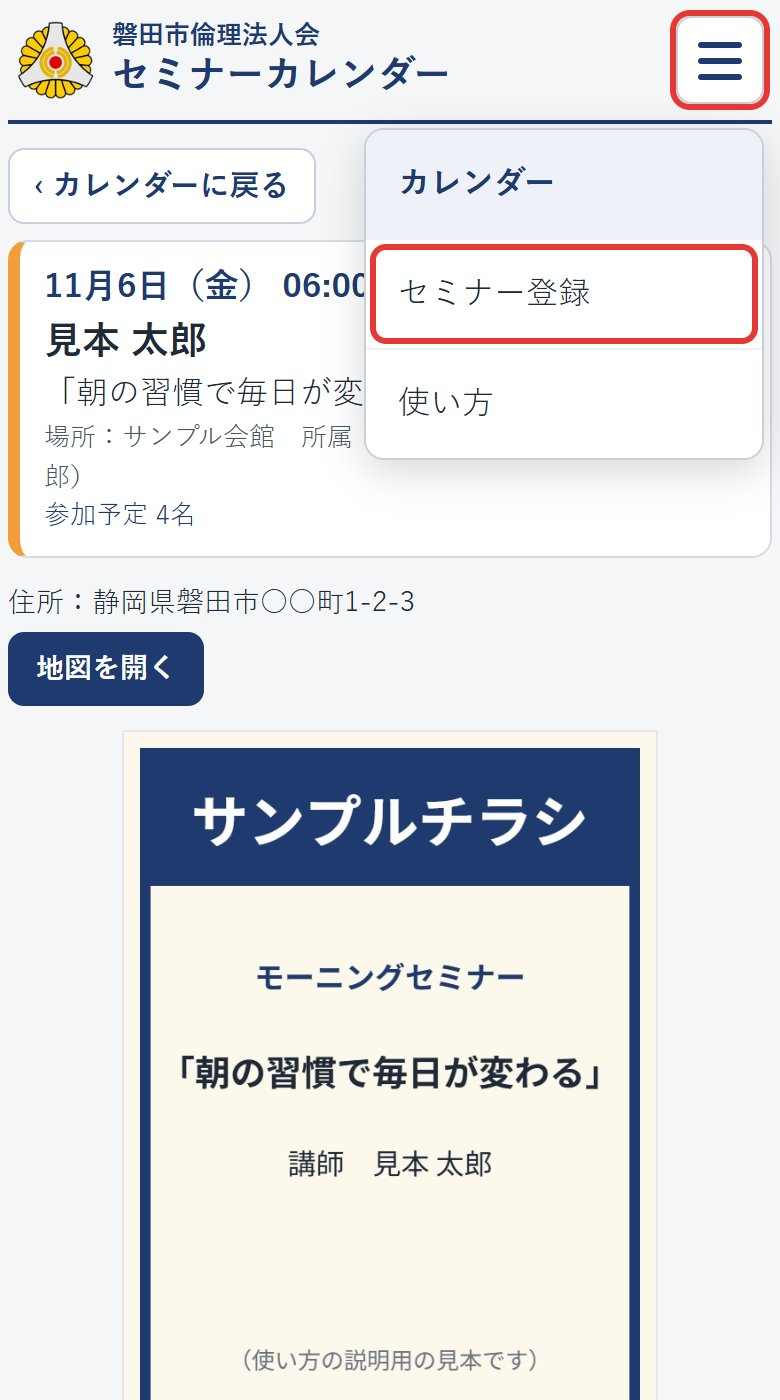
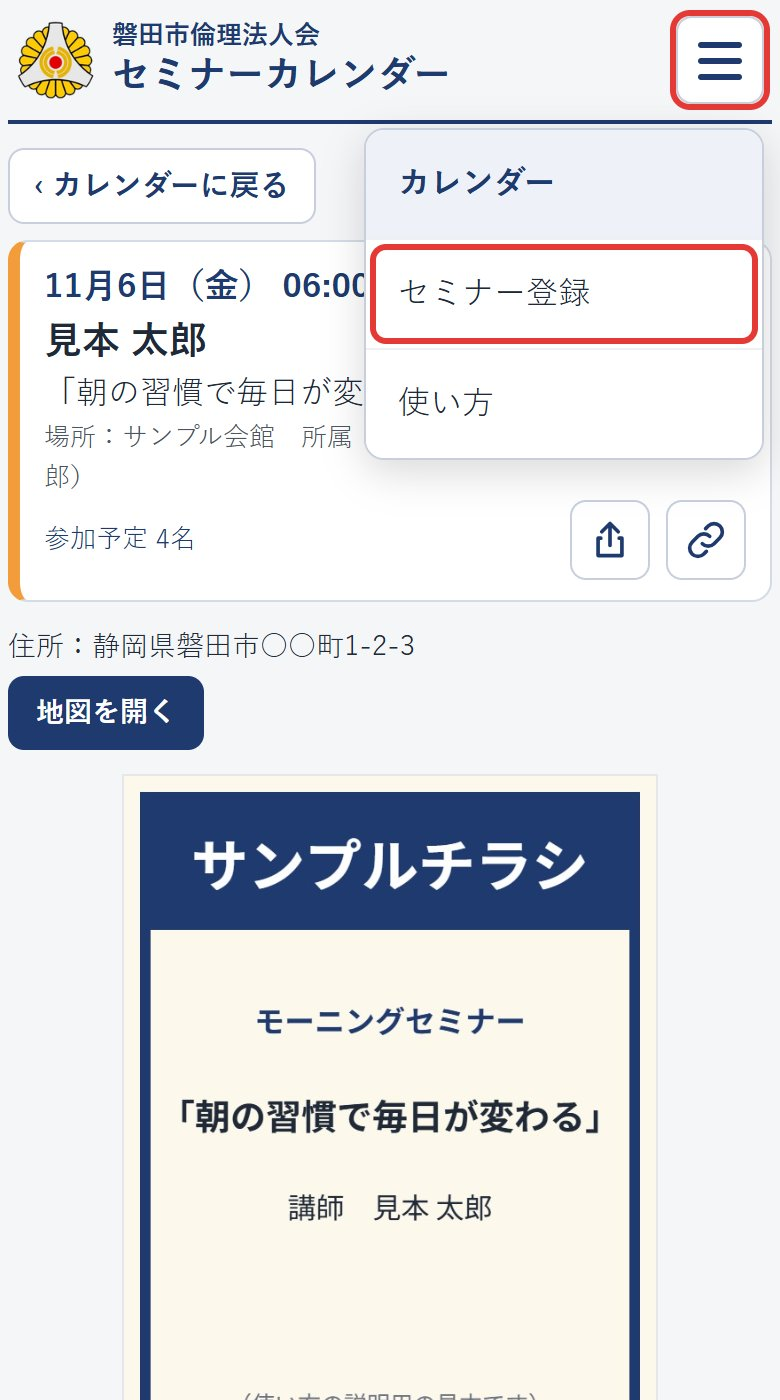
v7: 詳細ページに共有・リンクコピーのボタン（アイコンだけ、「参加予定」の行の右端）、月の一覧の終了したセミナーを折りたたむ
- URL は origin + pathname + ?openExternalBrowser=1#s=<ID>。共有は navigator.share、無ければ LINE の共有ページ。参加者名は入れない
- リンクコピーはクリップボード（駄目なら execCommand、それも駄目なら URL を表示）。「リンクをコピーしました」を約2秒
- 「終了したセミナー（N件）」は最初は閉じる（これからが0件の月は開く）。開閉はメモリだけ、月を切り替えたら既定に
- 使い方の画像 02・05・11・12 を撮り直し。?v=14

diff --git a/app.js b/app.js
@@ -24,7 +24,8 @@
     detailNo: 0,
     passKnown: false,   // 合言葉が設定されているかをサーバーから聞いたか（v6：参加者の「削除」を出すため）
     passAsking: false,
-    applyNo: 0,         // 申込の返事（参加者一覧）を受け取った回数（裏の取り直しで古い一覧に戻さないため）
+    endedOpen: null,    // 一覧の「終了したセミナー」の開閉（v7。null＝既定。メモリだけ）
+    applyNo: 0,        // 申込の返事（参加者一覧）を受け取った回数（裏の取り直しで古い一覧に戻さないため）
     inAppHistory: false, // 直前の履歴がこの画面の中のもの（「‹ カレンダーに戻る」でブラウザの戻ると同じ動きにする）
     flash: '',          // 詳細ページの上に出すメッセージ（登録しました／更新しました）
     exportNo: 0,
@@ -200,6 +201,7 @@
    * 描いたあとに前後の月を先読みする
    */
   function loadMonth(ym) {
+    if (ym !== state.ym) state.endedOpen = null; // 月を切り替えたら終了したセミナーの開閉は既定に戻す（v7）
     state.ym = ym;
     state.loadedYm = ym;
     state.monthDirty = false;
@@ -344,7 +346,10 @@
       list.appendChild(el('div', 'status', 'この月のセミナーはありません'));
       return;
     }
-    sortForList(state.seminars, state.today).forEach(function (s) {
+    var sorted = sortForList(state.seminars, state.today);
+    var upcoming = sorted.filter(function (s) { return s.date >= state.today; });
+    var endedList = sorted.filter(function (s) { return s.date < state.today; });
+    var makeCard = function (s) {
       var ended = s.date < state.today;
       // 終了したカードは薄い灰色（v6。.ended は詳細ページの「終了」の枠と同じ名前なので card-ended にした）
       var card = el('button', 'card ' + kindOf(s) + (ended ? ' card-ended' : ''));
@@ -353,8 +358,28 @@
       fillHead(card, s);
       if (ended) card.appendChild(el('span', 'ended-badge', '終了'));
       card.addEventListener('click', function () { openSeminar(s.id); });
-      list.appendChild(card);
+      return card;
+    };
+    upcoming.forEach(function (s) { list.appendChild(makeCard(s)); });
+    if (!endedList.length) return;
+    // v7：終了したセミナーは折りたたむ。最初は閉じる（「これから」が0件の月は最初から開く）。開閉はメモリだけ
+    var open = state.endedOpen === null ? !upcoming.length : state.endedOpen;
+    var toggle = el('button', 'ended-toggle', '終了したセミナー（' + endedList.length + '件）');
+    toggle.type = 'button';
+    toggle.id = 'ended-toggle';
+    toggle.setAttribute('aria-expanded', String(open));
+    toggle.setAttribute('aria-controls', 'ended-list');
+    var box = el('div', 'ended-list');
+    box.id = 'ended-list';
+    box.hidden = !open;
+    endedList.forEach(function (s) { box.appendChild(makeCard(s)); });
+    toggle.addEventListener('click', function () {
+      state.endedOpen = box.hidden;
+      box.hidden = !state.endedOpen;
+      toggle.setAttribute('aria-expanded', String(state.endedOpen));
     });
+    list.appendChild(toggle);
+    list.appendChild(box);
   }
 
   /**
@@ -638,8 +663,102 @@
     edit.type = 'button';
     edit.addEventListener('click', function () { openEdit(s); });
     head.appendChild(edit);
+    // v7：「参加予定 N名」の行の右端に、共有とリンクコピー（アイコンだけ）
+    var count = head.querySelector('.count');
+    var row = el('div', 'count-row');
+    head.insertBefore(row, count);
+    row.appendChild(count);
+    row.appendChild(shareButtons(head, s));
     box.appendChild(head);
     return head;
+  }
+
+  // ---- 共有・リンクコピー（v7）。端末には何も保存しない。通信もしない（LINE の共有ページを開くときだけ） ----
+  var ICON_SHARE = '<svg viewBox="0 0 24 24" width="22" height="22" aria-hidden="true" focusable="false"><path d="M12 15V3M7.5 7.5L12 3l4.5 4.5M7 11H5.5v9.5h13V11H17" fill="none" stroke="currentColor" stroke-width="2" stroke-linecap="round" stroke-linejoin="round"/></svg>';
+  var ICON_LINK = '<svg viewBox="0 0 24 24" width="22" height="22" aria-hidden="true" focusable="false"><path d="M10 14a4.5 4.5 0 0 0 6.4 0l3.2-3.2a4.5 4.5 0 0 0-6.4-6.4l-1.4 1.4M14 10a4.5 4.5 0 0 0-6.4 0l-3.2 3.2a4.5 4.5 0 0 0 6.4 6.4l1.4-1.4" fill="none" stroke="currentColor" stroke-width="2" stroke-linecap="round" stroke-linejoin="round"/></svg>';
+
+  /** セミナーごとの URL。ドメインは直書きしない（今開いているページの origin + pathname） */
+  function seminarUrl(s) {
+    return location.origin + location.pathname + '?openExternalBrowser=1#s=' + encodeURIComponent(s.id);
+  }
+
+  /** 共有の文（画面に出ている文字だけ。参加者の名前は入れない） */
+  function shareLines(s) {
+    var wd = WEEK[weekdayOf(s.date)];
+    var lines = ['【磐田市倫理法人会 セミナー】', dateLabel(s.date) + '（' + wd + '）' + s.time + ' ' + s.lecturer];
+    if (s.theme) lines.push('「' + s.theme + '」');
+    return lines;
+  }
+
+  function shareButtons(head, s) {
+    var wrap = el('div', 'share-actions');
+    var mk = function (cls, label, svg) {
+      var b = el('button', 'icon-btn ' + cls);
+      b.type = 'button';
+      b.setAttribute('aria-label', label);
+      b.title = label;
+      b.innerHTML = svg;
+      wrap.appendChild(b);
+      return b;
+    };
+    var share = mk('share-btn', '共有', ICON_SHARE);
+    var copy = mk('copy-btn', 'リンクをコピー', ICON_LINK);
+    // 「リンクをコピーしました」はボタンの下に重ねて出す（下の内容を動かさない）
+    var toast = el('div', 'share-toast');
+    toast.setAttribute('aria-live', 'polite');
+    wrap.appendChild(toast);
+    var toastTimer = null;
+    var showToast = function (text) {
+      toast.textContent = text;
+      toast.classList.add('show');
+      clearTimeout(toastTimer);
+      toastTimer = setTimeout(function () { toast.classList.remove('show'); toast.textContent = ''; }, 2000);
+    };
+    // 失敗したとき：見出しの枠の下に理由と URL（長押しで選べる文字）
+    var fail = function (text) {
+      var old = head.querySelector('.share-fail');
+      if (old) old.remove();
+      var box = el('div', 'share-fail');
+      box.appendChild(el('div', 'msg error', text));
+      box.appendChild(el('div', 'share-url', seminarUrl(s)));
+      head.appendChild(box);
+    };
+    var openLine = function () {
+      var lines = shareLines(s).concat([seminarUrl(s)]);
+      var w = window.open('https://line.me/R/share?text=' + encodeURIComponent(lines.join('\n')), '_blank');
+      if (w) { try { w.opener = null; } catch (e) { /* 何もしない */ } } else fail('共有できませんでした');
+    };
+    share.addEventListener('click', function () {
+      if (navigator.share) {
+        navigator.share({ title: '磐田市倫理法人会 セミナー', text: shareLines(s).join('\n'), url: seminarUrl(s) })
+          .catch(function (err) {
+            if (err && err.name === 'AbortError') return; // 利用者がやめた
+            openLine();
+          });
+      } else {
+        openLine();
+      }
+    });
+    copy.addEventListener('click', function () {
+      var url = seminarUrl(s);
+      var fallback = function () {
+        var ta = el('textarea', 'copy-buffer');
+        ta.value = url;
+        ta.setAttribute('readonly', '');
+        document.body.appendChild(ta);
+        ta.select();
+        var ok = false;
+        try { ok = document.execCommand('copy'); } catch (e) { ok = false; }
+        ta.remove();
+        if (ok) showToast('リンクをコピーしました'); else fail('コピーできませんでした');
+      };
+      if (navigator.clipboard && navigator.clipboard.writeText) {
+        navigator.clipboard.writeText(url).then(function () { showToast('リンクをコピーしました'); }, fallback);
+      } else {
+        fallback();
+      }
+    });
+    return wrap;
   }
 
   $('d-back').addEventListener('click', function () {

diff --git a/style.css b/style.css
@@ -164,6 +164,32 @@ a.link-btn {
 .card.card-ended.venue { border-left-color: #f6cfa3; }
 .card.card-ended .when, .card.card-ended .when .sun, .card.card-ended .when .sat,
 .card.card-ended .lecturer, .card.card-ended .theme, .card.card-ended .meta, .card.card-ended .count { color: #4b5563; }
+/* 終了したセミナーの折りたたみ（v7）：控えめな見出し。▼＝閉、▲＝開（使い方の見出しと同じ印） */
+.ended-toggle {
+  display: flex; align-items: center; justify-content: space-between; gap: 8px; width: 100%; min-height: 44px;
+  margin: 4px 0 10px; padding: 8px 14px; border: 1px solid #e1e4e8; border-radius: 10px;
+  background: #f3f4f6; color: #4b5563; font-size: 15px; font-weight: bold; font-family: inherit; text-align: left; cursor: pointer;
+}
+.ended-toggle::after { content: '▼'; flex: none; font-size: 12px; }
+.ended-toggle[aria-expanded="true"]::after { content: '▲'; }
+/* 詳細ページの見出しの「参加予定 N名」の行（v7）：右端に共有・リンクコピー（アイコンだけ） */
+.detail-head .count-row { display: flex; align-items: center; justify-content: space-between; gap: 8px; margin-right: -52px; margin-top: 2px; }
+.share-actions { position: relative; display: flex; gap: 8px; flex: none; }
+.icon-btn {
+  display: inline-flex; align-items: center; justify-content: center; width: 40px; height: 40px; padding: 0;
+  border: 1px solid #c7cfdd; border-radius: 8px; background: #fff; color: #1e3a6e; cursor: pointer;
+}
+.icon-btn:focus-visible { outline: 2px solid #2D8CFF; outline-offset: 2px; }
+.share-toast {
+  position: absolute; right: 0; top: calc(100% + 6px); z-index: 2; white-space: nowrap;
+  padding: 4px 10px; border-radius: 6px; background: #1e3a6e; color: #fff; font-size: 13px; font-weight: bold;
+  visibility: hidden;
+}
+.share-toast.show { visibility: visible; }
+.share-fail { margin-top: 8px; margin-right: -52px; font-size: 13px; }
+.share-fail .msg { margin-top: 0; }
+.share-url { padding: 6px 8px; border: 1px solid #c7cfdd; border-radius: 6px; background: #fff; overflow-wrap: anywhere; user-select: all; -webkit-user-select: all; }
+.copy-buffer { position: fixed; left: -9999px; top: 0; width: 1px; height: 1px; opacity: 0; }
 /* 一覧のカードの右上の「終了」（v5。詳細ページの「終了」と同じ色） */
 .card .ended-badge {
   position: absolute; top: 8px; right: 8px;

diff --git a/index.html b/index.html
@@ -8,7 +8,7 @@
 <!-- v5：API のサーバーへの接続を先に始めておく（fetch は資格情報なしの CORS なので crossorigin を付ける） -->
 <link rel="preconnect" href="https://script.google.com" crossorigin>
 <link rel="preconnect" href="https://script.googleusercontent.com" crossorigin>
-<link rel="stylesheet" href="style.css?v=13">
+<link rel="stylesheet" href="style.css?v=14">
 <script src="config.js"></script>
 <script>
 // v5：最初の要求（今月の getMonth。#s=… なら getDetail と getFlyer）を app.js の読み込みを待たずに始める。
@@ -216,6 +216,6 @@
   </section>
 </div>
 
-<script src="app.js?v=13"></script>
+<script src="app.js?v=14"></script>
 </body>
 </html>
